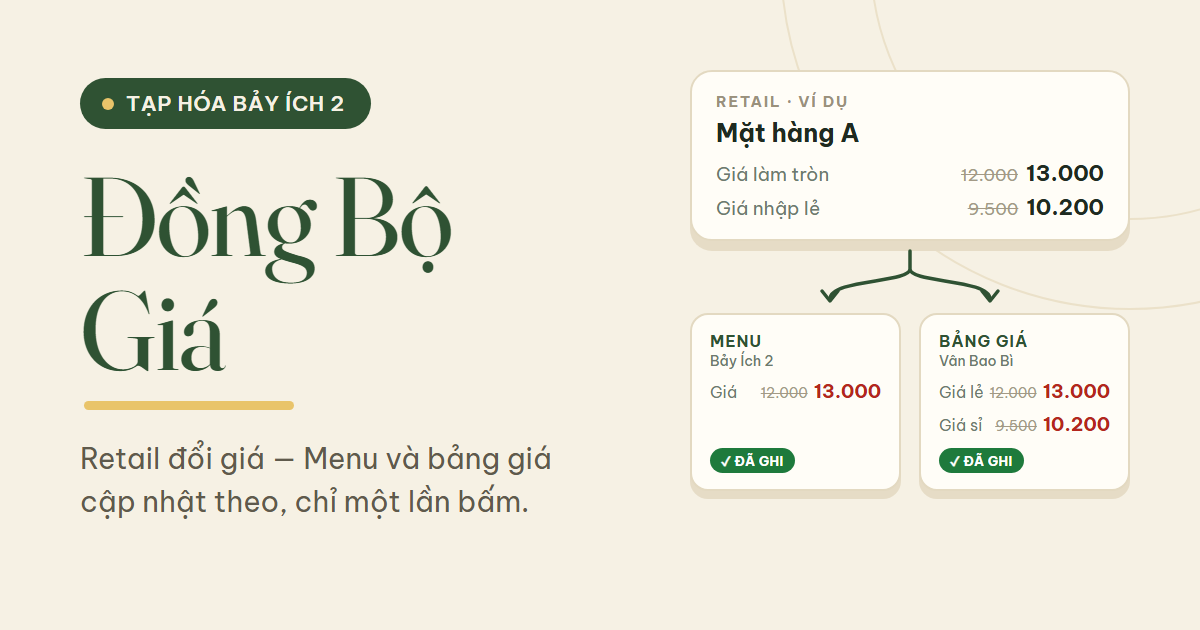
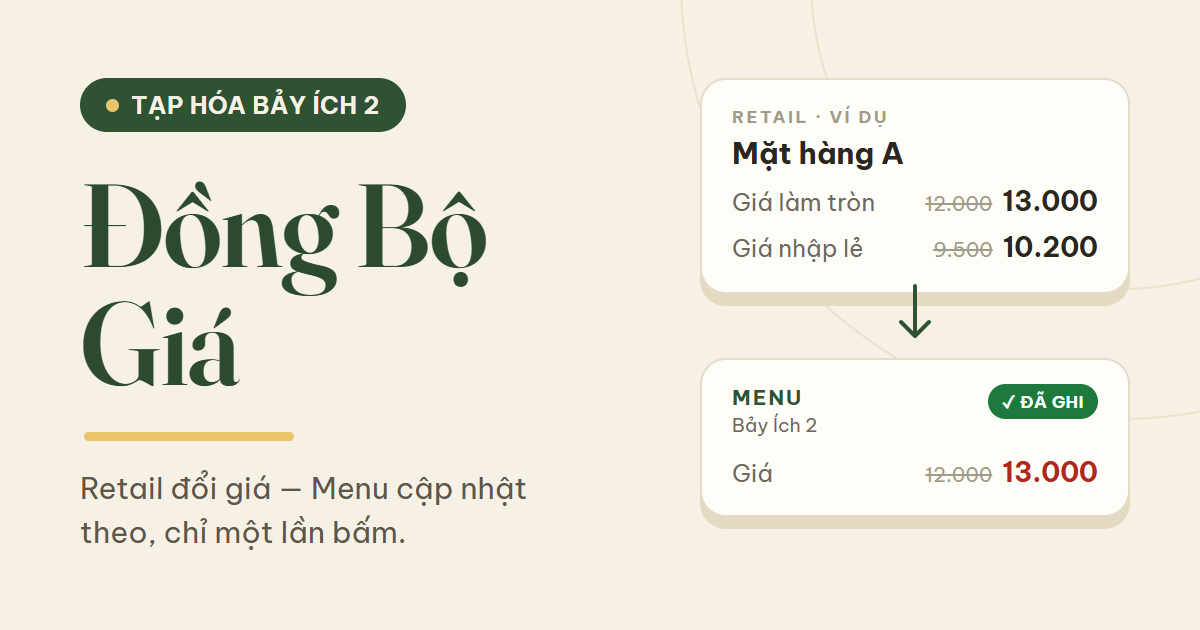
Ảnh xem trước: bỏ nhánh Bảng giá Vân Bao Bì (đã ngừng đồng bộ) — còn Retail → Menu

diff --git a/index.html b/index.html
@@ -17,7 +17,7 @@
 <meta property="og:image:type" content="image/png">
 <meta property="og:image:width" content="1200">
 <meta property="og:image:height" content="630">
-<meta property="og:image:alt" content="Đồng bộ giá của Tạp Hóa Bảy Ích 2: Retail đổi giá, Menu và bảng giá cập nhật theo">
+<meta property="og:image:alt" content="Đồng bộ giá của Tạp Hóa Bảy Ích 2: Retail đổi giá, Menu cập nhật theo">
 <meta property="og:locale" content="vi_VN">
 <meta name="twitter:card" content="summary_large_image">
 <meta name="twitter:title" content="Đồng Bộ Giá — Bảy Ích 2">
